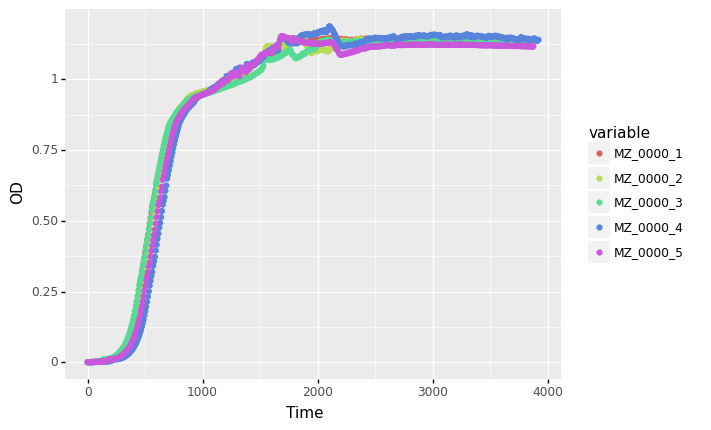
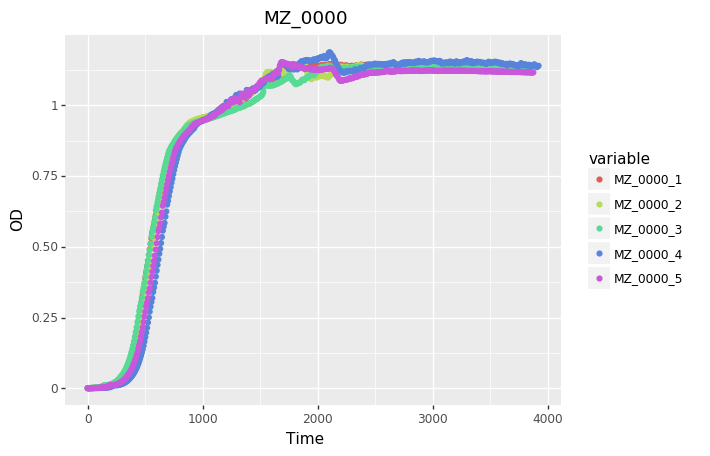
fixed regression function
Also exploring how to accurately detect growth phase

diff --git a/analysisFunctions.py b/analysisFunctions.py
@@ -8,37 +8,37 @@ from scipy import stats
 
 
 
-def normalizePlate(pathToExcel):
+def normalize_plate(pathToExcel):
     """
     This function takes in the pathToExcel file and outputs the normalized GFP and OD values as a dict
     """
     # so first we want to open and analyse a single file
 
-    inputDf = pd.read_excel(pathToExcel)
+    input_df = pd.read_excel(pathToExcel)
 
 
-    inputDfOd = inputDf[45:143].transpose()
-    inputDfGfp = inputDf[146:244].transpose()
+    input_df_od = input_df[45:143].transpose()
+    input_df_gfp = input_df[146:244].transpose()
 
 
     # Now I want to set the Index as Time
 
 
-    inputDfOd.reset_index(inplace=True, drop=True)
-    inputDfGfp.reset_index(inplace=True, drop=True)
+    input_df_od.reset_index(inplace=True, drop=True)
+    input_df_gfp.reset_index(inplace=True, drop=True)
 
-    colsToDrop = [1, 2, 3, 4, 5, 6, 7, 8, 9, 10, 11, 12, 13, 14, 25,
+    cols_to_drop = [1, 2, 3, 4, 5, 6, 7, 8, 9, 10, 11, 12, 13, 14, 25,
     26, 37, 38, 49, 50, 61, 62, 73, 74, 85, 86, 87,
     88, 89, 90, 91, 92, 93, 94, 95, 96, 97]
 
 
-    inputDfOd.drop(inputDfOd.columns[colsToDrop], axis=1, inplace=True)
-    inputDfGfp.drop(inputDfGfp.columns[colsToDrop], axis=1, inplace=True)
+    input_df_od.drop(input_df_od.columns[cols_to_drop], axis=1, inplace=True)
+    input_df_gfp.drop(input_df_gfp.columns[cols_to_drop], axis=1, inplace=True)
 
 
     #now drop the first row as it contains our headers and drop any NA from empty data
-    inputDfOd = inputDfOd.drop(inputDfOd.index[0]).dropna()
-    inputDfGfp = inputDfGfp.drop(inputDfGfp.index[0]).dropna()
+    input_df_od = input_df_od.drop(input_df_od.index[0]).dropna()
+    input_df_gfp = input_df_gfp.drop(input_df_gfp.index[0]).dropna()
 
 
 
@@ -49,106 +49,88 @@ def normalizePlate(pathToExcel):
         reader = csv.reader(f)
         data = list(reader)
 
-    colNames = data[0]
+    col_names = data[0]
 
-    inputDfOd.rename(columns=dict(zip(inputDfOd.columns, colNames)),  inplace=True)
-    inputDfGfp.rename(columns=dict(zip(inputDfGfp.columns, colNames)),  inplace=True)
+    input_df_od.rename(columns=dict(zip(input_df_od.columns, col_names)),  inplace=True)
+    input_df_gfp.rename(columns=dict(zip(input_df_gfp.columns, col_names)),  inplace=True)
 
 
     #now find the Time in minutes
-    newTime = [round(x*(7.6),2) for x in range(0, len(inputDfOd))]
-    inputDfOd["Time (min)"] = newTime
-    inputDfGfp["Time (min)"] = newTime
+    new_time = [round(x*(7.6),2) for x in range(0, len(input_df_od))]
+    input_df_od["Time (min)"] = new_time
+    input_df_gfp["Time (min)"] = new_time
 
     # now I want to subtract the average of the first row from all values in the dataframe
-    # OdMeanBg = inputDfOd.loc[1][2:61].mean()
-    # GfpMeanBg = inputDfGfp.loc[1][2:61].mean()
 
-    # inputDfOd.loc[:, inputDfOd.columns != 'Time (min)'] = inputDfOd.loc[:, inputDfOd.columns != 'Time (min)']- OdMeanBg
-    # inputDfGfp.loc[:, inputDfGfp.columns != 'Time (min)'] = inputDfGfp.loc[:, inputDfGfp.columns != 'Time (min)']- GfpMeanBg
+    firstRowOd = input_df_od.iloc[[0]].values[0]
+    finalOd = input_df_od.apply(lambda row: row - firstRowOd, axis=1)
 
-    firstRowOd = inputDfOd.iloc[[0]].values[0]
-    finalOd = inputDfOd.apply(lambda row: row - firstRowOd, axis=1)
-
-    firstRowGfp = inputDfGfp.iloc[[0]].values[0]
-    finalGfp = inputDfGfp.apply(lambda row: row - firstRowGfp, axis=1)
+    firstRowGfp = input_df_gfp.iloc[[0]].values[0]
+    finalGfp = input_df_gfp.apply(lambda row: row - firstRowGfp, axis=1)
 
     return {"OD": finalOd, "GFP": finalGfp}
 
 
 
 
-def alignDf(splitDf, **kwargs):
+def align_df(split_df, **kwargs):
     """
     This function takes a single experiment and aligns it to > stDev*5
     or you can pass in a kw od = num to set alignment
     """
 
-    newTime = splitDf["Time"].values
-    allignedDF = []
-    sampleList = []
-
-
-    stDev =  np.std(splitDf['OD'].iloc[0:10])
-    OdFilterValue = stDev*5
+    new_time = split_df["Time"].values
+    st_dev =  np.std(split_df['OD'].iloc[0:10])
+    od_filter_value = st_dev*5
     if kwargs:
-        OdFilterValue = kwargs.get('od')
-    filteredNew = splitDf.loc[splitDf['OD'] > OdFilterValue].reset_index(drop = True)
-    filteredNew["Time"] = newTime[0:len(filteredNew)]
+        od_filter_value = kwargs.get('od')
+    filtered_new = split_df.loc[split_df['OD'] > od_filter_value].reset_index(drop = True)
+    filtered_new["Time"] = new_time[0:len(filtered_new)]
 
-    # filteredNew = filteredNew.drop("index", axis = 1)
-    return filteredNew
+    return filtered_new
 
-def generatePlots(longDf, directory):
+def generate_plots(long_df, directory):
     """
     This function takes in a long Df it should then output a graph for every
     group
     """
 
-    split = longDf.groupby('Group')    
-    splitDf = [split.get_group(x) for x in split.groups]
+    split = long_df.groupby('Group')    
+    split_df = [split.get_group(x) for x in split.groups]
 
-    for num, df in enumerate(splitDf):
-        groupPlot = (
+    for num, df in enumerate(split_df):
+        group_plot = (
             gg.ggplot(df)+
             gg.aes(x='Time', y='OD', color='variable')+
             gg.geom_point()+
             gg.ggtitle(df['Group'].values[0])
         )
         saveString = f"test{num}.png"
-        gg.ggsave(groupPlot, os.path.join(directory, saveString))
+        gg.ggsave(group_plot, os.path.join(directory, saveString))
 
 
-def calculateRegression(longDf):
+def calculate_regression(long_df):
     """
-    This function will take the longDf and calculate a rolling window
+    This function will take the long_df and calculate a rolling window
     fit for growth rate
     """
-    windowSize = 8
-    split = longDf.groupby('Group')    
-    splitDf = [split.get_group(x) for x in split.groups]
-    longDf = []
+    window_size = 8
+    split = long_df.groupby('variable')    
+    split_df = [split.get_group(x) for x in split.groups]
+    long_df = []
 
-    for df in splitDf:
+    for df in split_df:
         regress_list = []
         for length in range(len(df)):
             res = stats.linregress(
-                x = df['Time'].values[length:length+windowSize],
-                y = df['log(OD)'].values[length:length+windowSize]
+                x = df['Time'].values[length:length+window_size],
+                y = df['log(OD)'].values[length:length+window_size]
             )
             regress_list.append((res.slope*60))
         
         df['GrowthRate'] = regress_list
-        longDf.append(df)
+        long_df.append(df)
     
-    longDf = pd.concat(longDf)
-    return longDf
+    long_df = pd.concat(long_df)
+    return long_df
 
-
-
-
-
-
-# model = RollingOLS(endog =df['OD'].values , exog=df[['Time']],window=5)
-# rres = model.fit()
-# rres.params

diff --git a/analysis.py b/analysis.py
@@ -1,32 +1,31 @@
-from analysisFunctions import normalizePlate, alignDf, generatePlots, calculateRegression
+from analysisFunctions import normalize_plate, align_df, generate_plots, calculate_regression
 import pandas as pd
 import numpy as np
 from scipy import stats
 
-filesToAnalyze = []
-
-test = analyzePlate(filesToAnalyze[1])
+files_to_analyze = []
 
 import os
 for root, dirs, files in os.walk("Data"):
     for filename in files:
         if filename.endswith(".xlsx"):
-            filesToAnalyze.append({"root": root, "filename": filename})
+            files_to_analyze.append({"root": root, "filename": filename})
 
-def analyzePlate(file):
+def analyze_plate(file, **kwargs):
+    keywords = kwargs
 
     root = file['root']
     filename = file['filename']
 
-    plate1Path = os.path.join(root, filename)
-    plate1Normalized = normalizePlate(plate1Path)
+    plate_path = os.path.join(root, filename)
+    plate_normalized = normalize_plate(plate_path)
 
     # Align the dataframe to a specific value for individual values
 
-    a = plate1Normalized['OD'].melt(id_vars="Time (min)")
+    a = plate_normalized['OD'].melt(id_vars="Time (min)")
     a = a.rename(columns = dict(zip(a.columns, ["Time", "variable", "OD"])))
 
-    b = plate1Normalized['GFP'].melt(id_vars="Time (min)")
+    b = plate_normalized['GFP'].melt(id_vars="Time (min)")
     b = b.rename(columns = dict(zip(b.columns, ["Time", "variable", "GFP"])))
 
     merged = a.merge(b)
@@ -34,38 +33,86 @@ def analyzePlate(file):
     #OK its in the long format now to align it to OD
 
     split = merged.groupby('variable')    
-    splitDf = [split.get_group(x) for x in split.groups]
+    split_df = [split.get_group(x) for x in split.groups]
 
-    alignedDfLong = []
+    aligned_df_long = []
 
-    for df in splitDf:
-        alignedDf = alignDf(df)
-        alignedDfLong.append(alignedDf)
+    for df in split_df:
+        aligned_df = align_df(df)
+        aligned_df_long.append(aligned_df)
 
-    alignedDfLong = pd.concat(alignedDfLong)    
-    alignedDfLong['Group'] = alignedDfLong['variable'].apply(lambda x: x[0:7])
-    alignedDfLong['GFP/OD'] = alignedDfLong['GFP'] / alignedDfLong['OD']
-    alignedDfLong['log(OD)'] = np.log(alignedDfLong['OD'])
+    aligned_df_long = pd.concat(aligned_df_long)    
+    aligned_df_long['Group'] = aligned_df_long['variable'].apply(lambda x: x[0:7])
+    aligned_df_long['GFP/OD'] = aligned_df_long['GFP'] / aligned_df_long['OD']
+    aligned_df_long['log(OD)'] = np.log(aligned_df_long['OD'])
 
-    generatePlots(alignedDfLong, root)
-    alignedDfLong = calculateRegression(alignedDfLong)
+    if keywords.get('plot'):
+        print("generating plots")
+        generate_plots(aligned_df_long, root)
 
-    return alignedDfLong
+    aligned_df_long = calculate_regression(aligned_df_long)
+
+    return aligned_df_long
+
+
+test = analyze_plate(files_to_analyze[0], plot = False)
+
+split = test.groupby('variable')    
+split_df = [split.get_group(x) for x in split.groups]
+
+(
+    gg.ggplot(split_df[8][17:]) +
+    gg.aes(x="Time", y= "GrowthRate") +
+    gg.geom_point()
+
+)
+
+a = split_df[8]['GrowthRate'].values
+
+diff_length = []
+
+for num in range(len(a)-5):
+    val1 = a[num+2]
+    val2 = a[num]
+    val3 = a[num+1]
+    val4 = a[num+3]
+    val5 = a[num+5]
+
+    dif1 = (val1-val2)**2
+    dif2 = (val1-val3)**2
+    dif3 = (val1-val4)**2
+    dif4 = (val1-val5)**2
+    final_dif = dif1 + dif2 + dif3 + dif4
+    diff_length.append(final_dif)
+
+diff_length = pd.DataFrame({"diff": diff_length})
+
+final = pd.concat([split_df[8],diff_length], axis=1)
+final.loc[final['diff'] < 0.001]
+
+
+(
+    gg.ggplot(final) +
+    gg.aes(x="Time", y= "diff") +
+    gg.geom_point()+
+    gg.ylim(0, 0.0025)
+
+)
 
 import time
 
-def calculateRegression(df):
+def calculate_regression(df):
     """
     This function will take the longDf and calculate a rolling window
     fit for growth rate
     """
-    windowSize = 8
+    window_size = 8
 
     regress_list = []
     for length in range(len(df)):
         res = stats.linregress(
-            x = df['X'].values[length:length+windowSize],
-            y = df['Y'].values[length:length+windowSize]
+            x = df['X'].values[length:length+window_size],
+            y = df['Y'].values[length:length+window_size]
         )
         regress_list.append((res.slope*60))
     
@@ -78,7 +125,7 @@ start = time.time()
 x = np.random.random(10000)
 y = np.random.random(10000)
 test = pd.DataFrame({"X": x, "Y": y})
-calculateRegression(test)
+calculate_regression(test)
 
 end = time.time()
 
